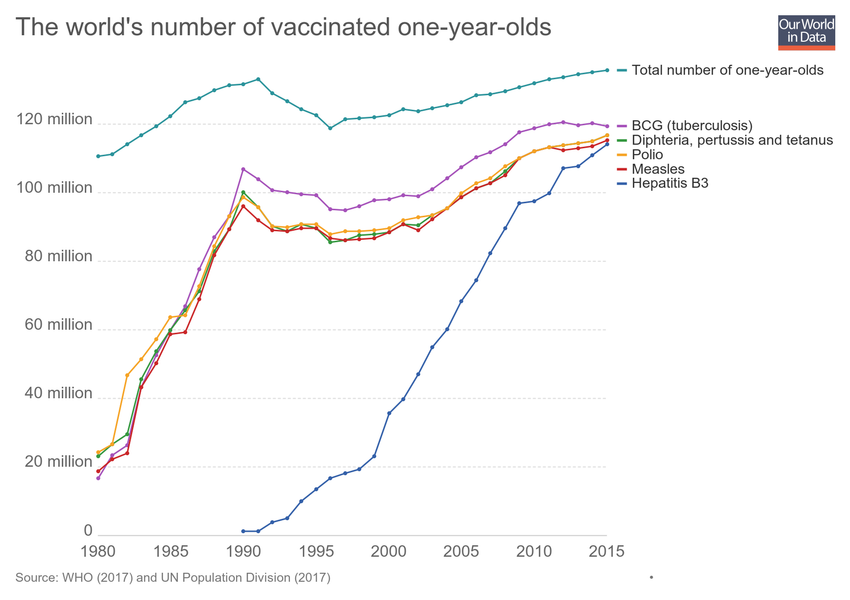
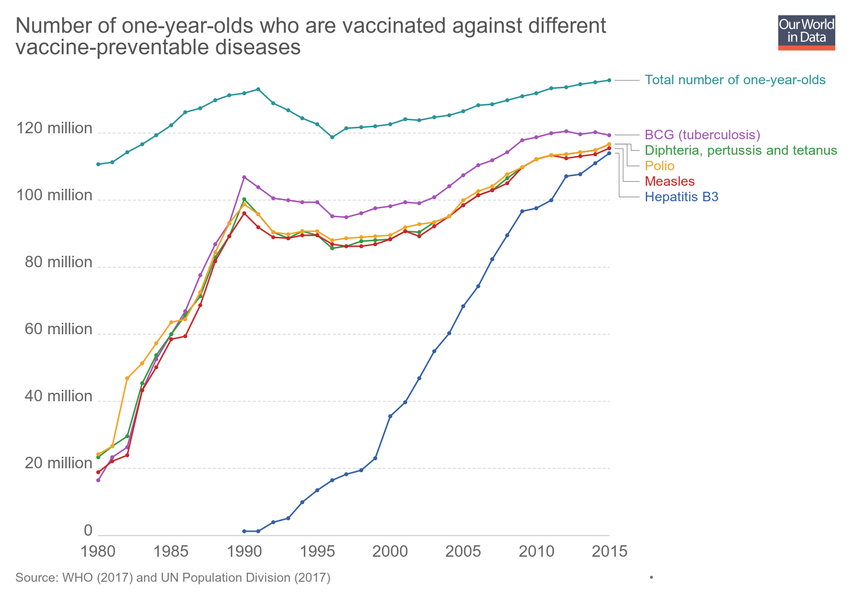
Updating chart the-worlds-number-of-vaccinated-one-year-olds

diff --git a/grapher/the-worlds-number-of-vaccinated-one-year-olds.html b/grapher/the-worlds-number-of-vaccinated-one-year-olds.html
@@ -1,4 +1,4 @@
-<!doctype html><html><head><meta name="viewport" content="width=device-width, initial-scale=1" /><title>The world's number of vaccinated one-year-olds  - Our World in Data</title><meta name="description" content="An interactive visualization from Our World in Data." /><link rel="canonical" href="https://ourworldindata.org/grapher/the-worlds-number-of-vaccinated-one-year-olds" /><meta property="fb:app_id" content="1149943818390250" /><meta property="og:url" content="https://ourworldindata.org/grapher/the-worlds-number-of-vaccinated-one-year-olds" /><meta property="og:title" content="The world's number of vaccinated one-year-olds " /><meta property="og:description" content="An interactive visualization from Our World in Data." /><meta property="og:image" content="https://ourworldindata.org/grapher/exports/the-worlds-number-of-vaccinated-one-year-olds.png?v=2" /><meta property="og:image:width" content="850" /><meta property="og:image:height" content="600" /><meta property="og:site_name" content="Our World in Data" /><meta name="twitter:card" content="summary_large_image" /><meta name="twitter:site" content="@OurWorldInData" /><meta name="twitter:creator" content="@OurWorldInData" /><meta name="twitter:title" content="The world's number of vaccinated one-year-olds " /><meta name="twitter:description" content="An interactive visualization from Our World in Data." /><meta name="twitter:image" content="https://ourworldindata.org/grapher/exports/the-worlds-number-of-vaccinated-one-year-olds.png?v=2" /><style>
+<!doctype html><html><head><meta name="viewport" content="width=device-width, initial-scale=1" /><title>Number of one-year-olds who are vaccinated against different vaccine-preventable diseases - Our World in Data</title><meta name="description" content="An interactive visualization from Our World in Data." /><link rel="canonical" href="https://ourworldindata.org/grapher/the-worlds-number-of-vaccinated-one-year-olds" /><meta property="fb:app_id" content="1149943818390250" /><meta property="og:url" content="https://ourworldindata.org/grapher/the-worlds-number-of-vaccinated-one-year-olds" /><meta property="og:title" content="Number of one-year-olds who are vaccinated against different vaccine-preventable diseases" /><meta property="og:description" content="An interactive visualization from Our World in Data." /><meta property="og:image" content="https://ourworldindata.org/grapher/exports/the-worlds-number-of-vaccinated-one-year-olds.png?v=3" /><meta property="og:image:width" content="850" /><meta property="og:image:height" content="600" /><meta property="og:site_name" content="Our World in Data" /><meta name="twitter:card" content="summary_large_image" /><meta name="twitter:site" content="@OurWorldInData" /><meta name="twitter:creator" content="@OurWorldInData" /><meta name="twitter:title" content="Number of one-year-olds who are vaccinated against different vaccine-preventable diseases" /><meta name="twitter:description" content="An interactive visualization from Our World in Data." /><meta name="twitter:image" content="https://ourworldindata.org/grapher/exports/the-worlds-number-of-vaccinated-one-year-olds.png?v=3" /><style>
         html, body {
             height: 100%;
             margin: 0;
@@ -20,8 +20,8 @@
         }
     </style><noscript><style>
                     figure { display: none !important; }
-                </style></noscript><link rel="stylesheet" href="https://ourworldindata.org/grapher/assets/commons.bundle.a7ce280024c736539280.css" /><link rel="preload" href="/grapher/data/variables/85788+85789+85790+85792+85791+85782.json?v=2" as="fetch" crossorigin /></head><body class="singleChart"><figure data-grapher-src="/grapher/the-worlds-number-of-vaccinated-one-year-olds"></figure><noscript id="fallback"><img src="/grapher/exports/the-worlds-number-of-vaccinated-one-year-olds.svg" /><p>Interactive visualization requires JavaScript</p></noscript><script src="https://cdn.polyfill.io/v2/polyfill.min.js?features=es6,fetch"></script><script src="https://ourworldindata.org/grapher/assets/commons.bundle.a7ce280024c736539280.js"></script><script src="https://ourworldindata.org/grapher/assets/charts.bundle.dcf65b68eddaba4c6a58.js"></script><script>
-        var jsonConfig = {"id":2260,"map":{"projection":"World","colorSchemeLabels":[],"colorSchemeValues":[],"defaultProjection":"World","colorSchemeMinValue":0,"customNumericColors":[],"customCategoryColors":{},"customCategoryLabels":{},"customHiddenCategories":{}},"tab":"chart","slug":"the-worlds-number-of-vaccinated-one-year-olds","type":"LineChart","title":"The world's number of vaccinated one-year-olds ","xAxis":{"scaleType":"linear"},"yAxis":{"min":0,"scaleType":"linear"},"version":2,"hasMapTab":false,"stackMode":"absolute","dimensions":[{"display":{"name":"BCG (tuberculosis)"},"property":"y","variableId":85788},{"display":{"name":"Hepatitis B3"},"property":"y","variableId":85789},{"display":{"name":"Diphteria, pertussis and tetanus"},"property":"y","variableId":85790},{"display":{"name":"Measles"},"property":"y","variableId":85792},{"display":{"name":"Polio"},"property":"y","variableId":85791},{"display":{"name":"Total number of one-year-olds"},"property":"y","variableId":85782}],"hasChartTab":true,"isPublished":true,"selectedData":[{"index":0,"entityId":355},{"index":1,"entityId":355},{"index":2,"entityId":355},{"index":3,"entityId":355},{"index":4,"entityId":355},{"index":5,"entityId":355}],"addCountryMode":"add-country","hideTitleAnnotation":true};
+                </style></noscript><link rel="stylesheet" href="https://ourworldindata.org/grapher/assets/commons.bundle.a7ce280024c736539280.css" /><link rel="preload" href="/grapher/data/variables/85788+85789+85790+85792+85791+85782.json?v=3" as="fetch" crossorigin /></head><body class="singleChart"><figure data-grapher-src="/grapher/the-worlds-number-of-vaccinated-one-year-olds"></figure><noscript id="fallback"><img src="/grapher/exports/the-worlds-number-of-vaccinated-one-year-olds.svg" /><p>Interactive visualization requires JavaScript</p></noscript><script src="https://cdn.polyfill.io/v2/polyfill.min.js?features=es6,fetch"></script><script src="https://ourworldindata.org/grapher/assets/commons.bundle.a7ce280024c736539280.js"></script><script src="https://ourworldindata.org/grapher/assets/charts.bundle.dcf65b68eddaba4c6a58.js"></script><script>
+        var jsonConfig = {"id":2260,"map":{"projection":"World","colorSchemeLabels":[],"colorSchemeValues":[],"colorSchemeMinValue":0,"customNumericColors":[],"customCategoryColors":{},"customCategoryLabels":{},"customHiddenCategories":{}},"tab":"chart","slug":"the-worlds-number-of-vaccinated-one-year-olds","type":"LineChart","title":"Number of one-year-olds who are vaccinated against different vaccine-preventable diseases","xAxis":{"scaleType":"linear"},"yAxis":{"min":0,"scaleType":"linear"},"version":3,"hasMapTab":false,"stackMode":"absolute","dimensions":[{"display":{"name":"BCG (tuberculosis)"},"property":"y","variableId":85788},{"display":{"name":"Hepatitis B3"},"property":"y","variableId":85789},{"display":{"name":"Diphteria, pertussis and tetanus"},"property":"y","variableId":85790},{"display":{"name":"Measles"},"property":"y","variableId":85792},{"display":{"name":"Polio"},"property":"y","variableId":85791},{"display":{"name":"Total number of one-year-olds"},"property":"y","variableId":85782}],"hasChartTab":true,"isPublished":true,"selectedData":[{"index":0,"entityId":355},{"index":1,"entityId":355},{"index":2,"entityId":355},{"index":3,"entityId":355},{"index":4,"entityId":355},{"index":5,"entityId":355}],"addCountryMode":"add-country","hideTitleAnnotation":true};
         var figure = document.getElementsByTagName("figure")[0];
         try {
             window.App = {};

diff --git a/grapher/share-of-vaccinated-one-year-olds-globally.html b/grapher/share-of-vaccinated-one-year-olds-globally.html
@@ -1,4 +1,4 @@
-<!doctype html><html><head><meta name="viewport" content="width=device-width, initial-scale=1" /><title>Share of vaccinated one-year-olds globally - Our World in Data</title><meta name="description" content="An interactive visualization from Our World in Data." /><link rel="canonical" href="https://ourworldindata.org/grapher/share-of-vaccinated-one-year-olds-globally" /><meta property="fb:app_id" content="1149943818390250" /><meta property="og:url" content="https://ourworldindata.org/grapher/share-of-vaccinated-one-year-olds-globally" /><meta property="og:title" content="Share of vaccinated one-year-olds globally" /><meta property="og:description" content="An interactive visualization from Our World in Data." /><meta property="og:image" content="https://ourworldindata.org/grapher/exports/share-of-vaccinated-one-year-olds-globally.png?v=2" /><meta property="og:image:width" content="850" /><meta property="og:image:height" content="600" /><meta property="og:site_name" content="Our World in Data" /><meta name="twitter:card" content="summary_large_image" /><meta name="twitter:site" content="@OurWorldInData" /><meta name="twitter:creator" content="@OurWorldInData" /><meta name="twitter:title" content="Share of vaccinated one-year-olds globally" /><meta name="twitter:description" content="An interactive visualization from Our World in Data." /><meta name="twitter:image" content="https://ourworldindata.org/grapher/exports/share-of-vaccinated-one-year-olds-globally.png?v=2" /><style>
+<!doctype html><html><head><meta name="viewport" content="width=device-width, initial-scale=1" /><title>Share of vaccinated one-year-olds globally - Our World in Data</title><meta name="description" content="An interactive visualization from Our World in Data." /><link rel="canonical" href="https://ourworldindata.org/grapher/share-of-vaccinated-one-year-olds-globally" /><meta property="fb:app_id" content="1149943818390250" /><meta property="og:url" content="https://ourworldindata.org/grapher/share-of-vaccinated-one-year-olds-globally" /><meta property="og:title" content="Share of vaccinated one-year-olds globally" /><meta property="og:description" content="An interactive visualization from Our World in Data." /><meta property="og:image" content="https://ourworldindata.org/grapher/exports/share-of-vaccinated-one-year-olds-globally.png?v=3" /><meta property="og:image:width" content="850" /><meta property="og:image:height" content="600" /><meta property="og:site_name" content="Our World in Data" /><meta name="twitter:card" content="summary_large_image" /><meta name="twitter:site" content="@OurWorldInData" /><meta name="twitter:creator" content="@OurWorldInData" /><meta name="twitter:title" content="Share of vaccinated one-year-olds globally" /><meta name="twitter:description" content="An interactive visualization from Our World in Data." /><meta name="twitter:image" content="https://ourworldindata.org/grapher/exports/share-of-vaccinated-one-year-olds-globally.png?v=3" /><style>
         html, body {
             height: 100%;
             margin: 0;
@@ -20,8 +20,8 @@
         }
     </style><noscript><style>
                     figure { display: none !important; }
-                </style></noscript><link rel="stylesheet" href="https://ourworldindata.org/grapher/assets/commons.bundle.a7ce280024c736539280.css" /><link rel="preload" href="/grapher/data/variables/85783+85784+85785+85787+85786.json?v=2" as="fetch" crossorigin /></head><body class="singleChart"><figure data-grapher-src="/grapher/share-of-vaccinated-one-year-olds-globally"></figure><noscript id="fallback"><img src="/grapher/exports/share-of-vaccinated-one-year-olds-globally.svg" /><p>Interactive visualization requires JavaScript</p></noscript><script src="https://cdn.polyfill.io/v2/polyfill.min.js?features=es6,fetch"></script><script src="https://ourworldindata.org/grapher/assets/commons.bundle.a7ce280024c736539280.js"></script><script src="https://ourworldindata.org/grapher/assets/charts.bundle.dcf65b68eddaba4c6a58.js"></script><script>
-        var jsonConfig = {"id":2261,"map":{"projection":"World","colorSchemeLabels":[],"colorSchemeValues":[],"colorSchemeMinValue":0,"customNumericColors":[],"customCategoryColors":{},"customCategoryLabels":{},"customHiddenCategories":{}},"tab":"chart","slug":"share-of-vaccinated-one-year-olds-globally","type":"LineChart","title":"Share of vaccinated one-year-olds globally","xAxis":{"scaleType":"linear"},"yAxis":{"min":0,"scaleType":"linear"},"version":2,"hasMapTab":false,"stackMode":"absolute","dimensions":[{"display":{"name":"BCG (tuberculosis)","shortUnit":"%"},"property":"y","variableId":85783},{"display":{"name":"Hepatitis B3"},"property":"y","variableId":85784},{"display":{"name":"Diphtheria, pertussis and tetanus"},"property":"y","variableId":85785},{"display":{"name":"Measles"},"property":"y","variableId":85787},{"display":{"name":"Polio"},"property":"y","variableId":85786}],"hasChartTab":true,"isPublished":true,"selectedData":[{"index":0,"entityId":355},{"index":1,"entityId":355},{"index":2,"entityId":355},{"index":3,"entityId":355},{"index":4,"entityId":355}],"addCountryMode":"disabled","hideTitleAnnotation":true};
+                </style></noscript><link rel="stylesheet" href="https://ourworldindata.org/grapher/assets/commons.bundle.a7ce280024c736539280.css" /><link rel="preload" href="/grapher/data/variables/85783+85784+85785+85787+85786.json?v=3" as="fetch" crossorigin /></head><body class="singleChart"><figure data-grapher-src="/grapher/share-of-vaccinated-one-year-olds-globally"></figure><noscript id="fallback"><img src="/grapher/exports/share-of-vaccinated-one-year-olds-globally.svg" /><p>Interactive visualization requires JavaScript</p></noscript><script src="https://cdn.polyfill.io/v2/polyfill.min.js?features=es6,fetch"></script><script src="https://ourworldindata.org/grapher/assets/commons.bundle.a7ce280024c736539280.js"></script><script src="https://ourworldindata.org/grapher/assets/charts.bundle.dcf65b68eddaba4c6a58.js"></script><script>
+        var jsonConfig = {"id":2261,"map":{"projection":"World","colorSchemeLabels":[],"colorSchemeValues":[],"colorSchemeMinValue":0,"customNumericColors":[],"customCategoryColors":{},"customCategoryLabels":{},"customHiddenCategories":{}},"tab":"chart","slug":"share-of-vaccinated-one-year-olds-globally","type":"LineChart","title":"Share of vaccinated one-year-olds globally","xAxis":{"scaleType":"linear"},"yAxis":{"max":100,"min":0,"scaleType":"linear"},"version":3,"hasMapTab":false,"stackMode":"absolute","dimensions":[{"display":{"name":"BCG (tuberculosis)","shortUnit":"%"},"property":"y","variableId":85783},{"display":{"name":"Hepatitis B3"},"property":"y","variableId":85784},{"display":{"name":"Diphtheria, pertussis and tetanus"},"property":"y","variableId":85785},{"display":{"name":"Measles"},"property":"y","variableId":85787},{"display":{"name":"Polio"},"property":"y","variableId":85786}],"hasChartTab":true,"isPublished":true,"selectedData":[{"index":0,"entityId":355},{"index":1,"entityId":355},{"index":2,"entityId":355},{"index":3,"entityId":355},{"index":4,"entityId":355}],"addCountryMode":"disabled","hideTitleAnnotation":true};
         var figure = document.getElementsByTagName("figure")[0];
         try {
             window.App = {};
